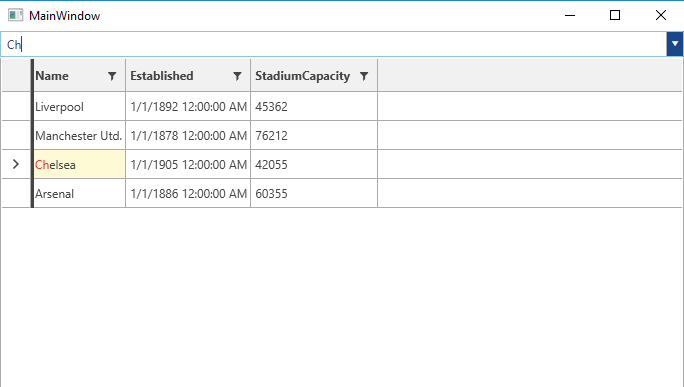
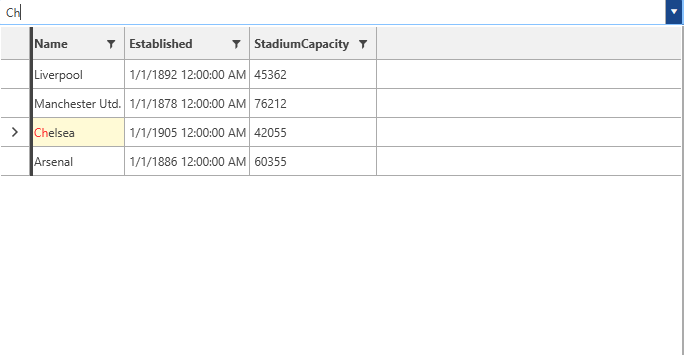
Fixed image and added MultiColumnComboBox to control dependancies

diff --git a/controls/radmulticolumncombobox/getting-started.md b/controls/radmulticolumncombobox/getting-started.md
@@ -41,7 +41,7 @@ Note, that such definition would simply result in having an AutoComplete box. In
 {{region radmulticolumncombobox-gettingstarted_1}}
 	 <telerik:RadMultiColumnComboBox VerticalAlignment="Top" DisplayMemberPath="Name">
             <telerik:RadMultiColumnComboBox.ItemsSourceProvider>
-                <telerik:GridViewItemsSourceProvider ItemsSource="{Binding Clubs, Source={StaticResource MyViewModel}}" />
+                <telerik:GridViewItemsSourceProvider ItemsSource="{Binding Clubs}" />
             </telerik:RadMultiColumnComboBox.ItemsSourceProvider>
         </telerik:RadMultiColumnComboBox>
 {{endregion}}

diff --git a/common-information/installation-installing-dependencies-wpf.md b/common-information/installation-installing-dependencies-wpf.md
@@ -65,6 +65,7 @@ RadListBox	|	Telerik.Windows.Controls
 RadMap	|	Telerik.Windows.Controls.DataVisualization, Telerik.Windows.Data
 RadMaskedInput	|	Telerik.Windows.Controls.Input
 RadMenu	|	Telerik.Windows.Controls.Navigation
+RadMultiColumnComboBox | Telerik.Windows.Controls, Telerik.Windows.Controls.GridView, Telerik.Windows.Controls.Input, Telerik.Windows.Data
 RadNumericUpDown	|	Telerik.Windows.Controls.Input
 RadOutlookBar	|	Telerik.Windows.Controls.Navigation, Telerik.Windows.Data
 RadPanelBar	|	Telerik.Windows.Controls.Navigation, Telerik.Windows.Data
